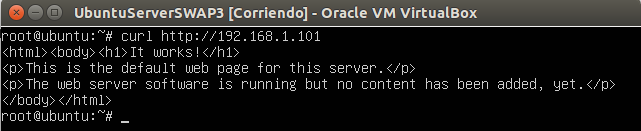
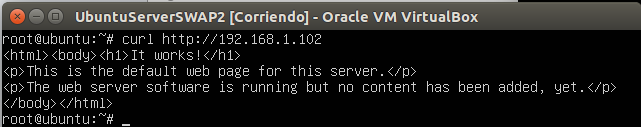
Practica 3 nginx

Changed region(s): [[0.0, 0.0, 1.0, 0.9921], [0.1872, 0.9685, 0.2184, 0.9921]]

diff --git a/Practica3/P3_Mario-Ortega-Aguayo.md b/Practica3/P3_Mario-Ortega-Aguayo.md
@@ -29,15 +29,18 @@ Reiniciamos el servicio nginx para que tome la nueva configuración:
 
 <pre>service nginx restart</pre>
 
-Y comprobamos que funciona correctamente realizando peticiones web a una de las máquinas servidoras, en este caso la máquina 2.
+Y comprobamos que funciona correctamente realizando peticiones web mediante curl http://192.168.1.102, es decir, al servidor que está ejecutando nginx.
 
 ![](./img/6.png)
 
-Para finalizar con la configuración de nginx vamos a añadir a la configuración keepalive, ya que actualmente es el método más utilizado para conexiones con una persistencia de múltiples peticiones HTTP, y asi evitar abrir una conexión nueva cada vez.
+Para finalizar con la configuración de nginx vamos a añadir a la configuración el doble de peso a la maquina servidora 1 mediante la directiva weight.
 
 ![](./img/7.png)
 
-Comprobamos que sigue funcionando correctamente.
+Comprobamos que sigue funcionando correctamente con ambas maquinas servidoras (1 y 2).
 
 
 ![](./img/8.png)
+
+
+![](./img/9.png)
